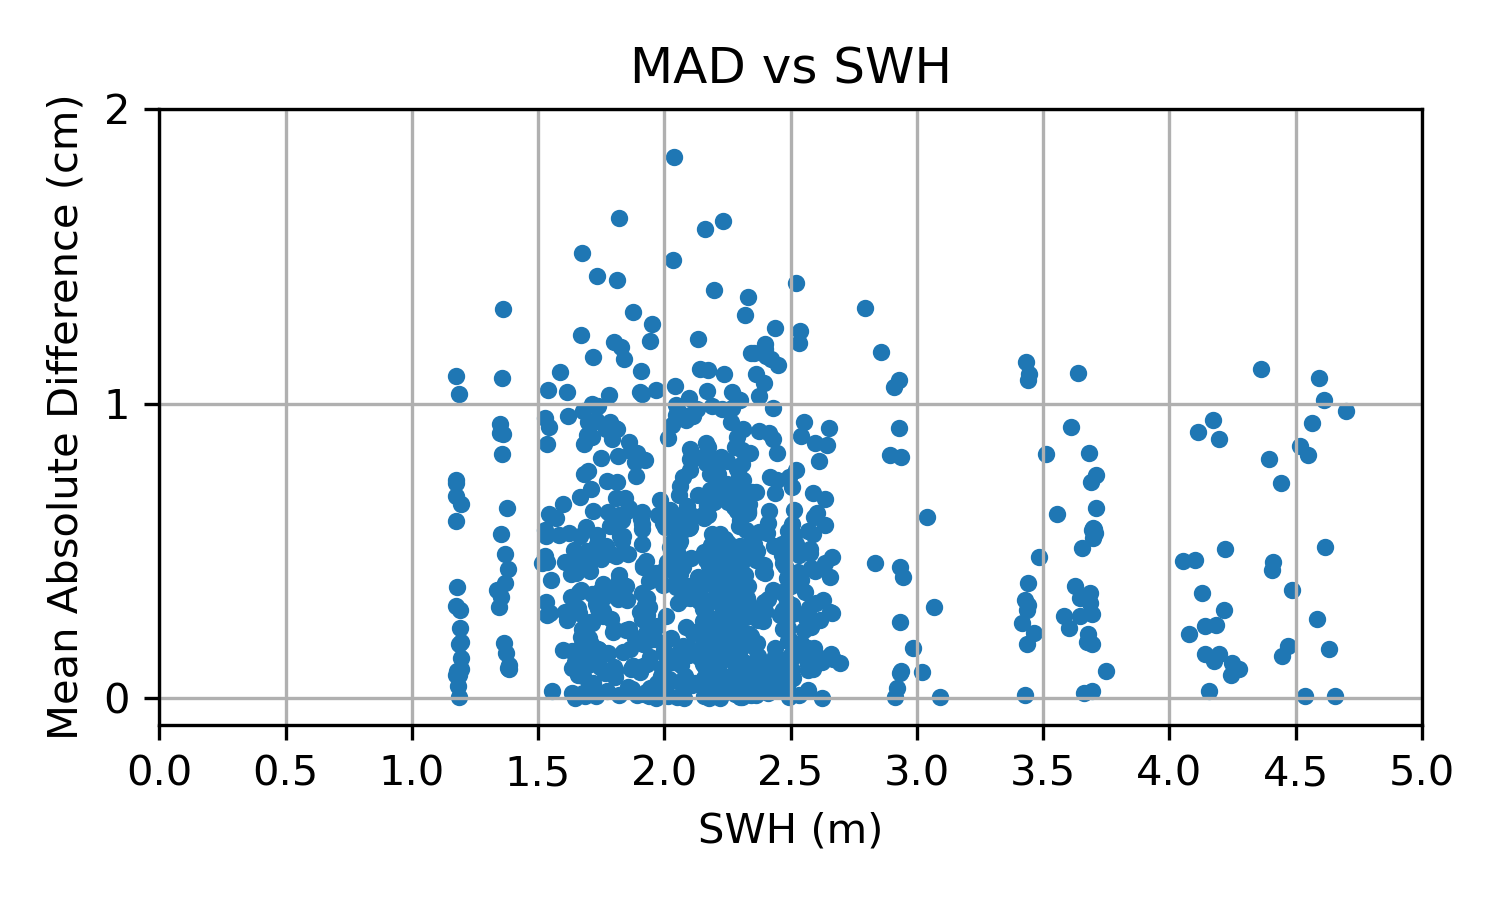
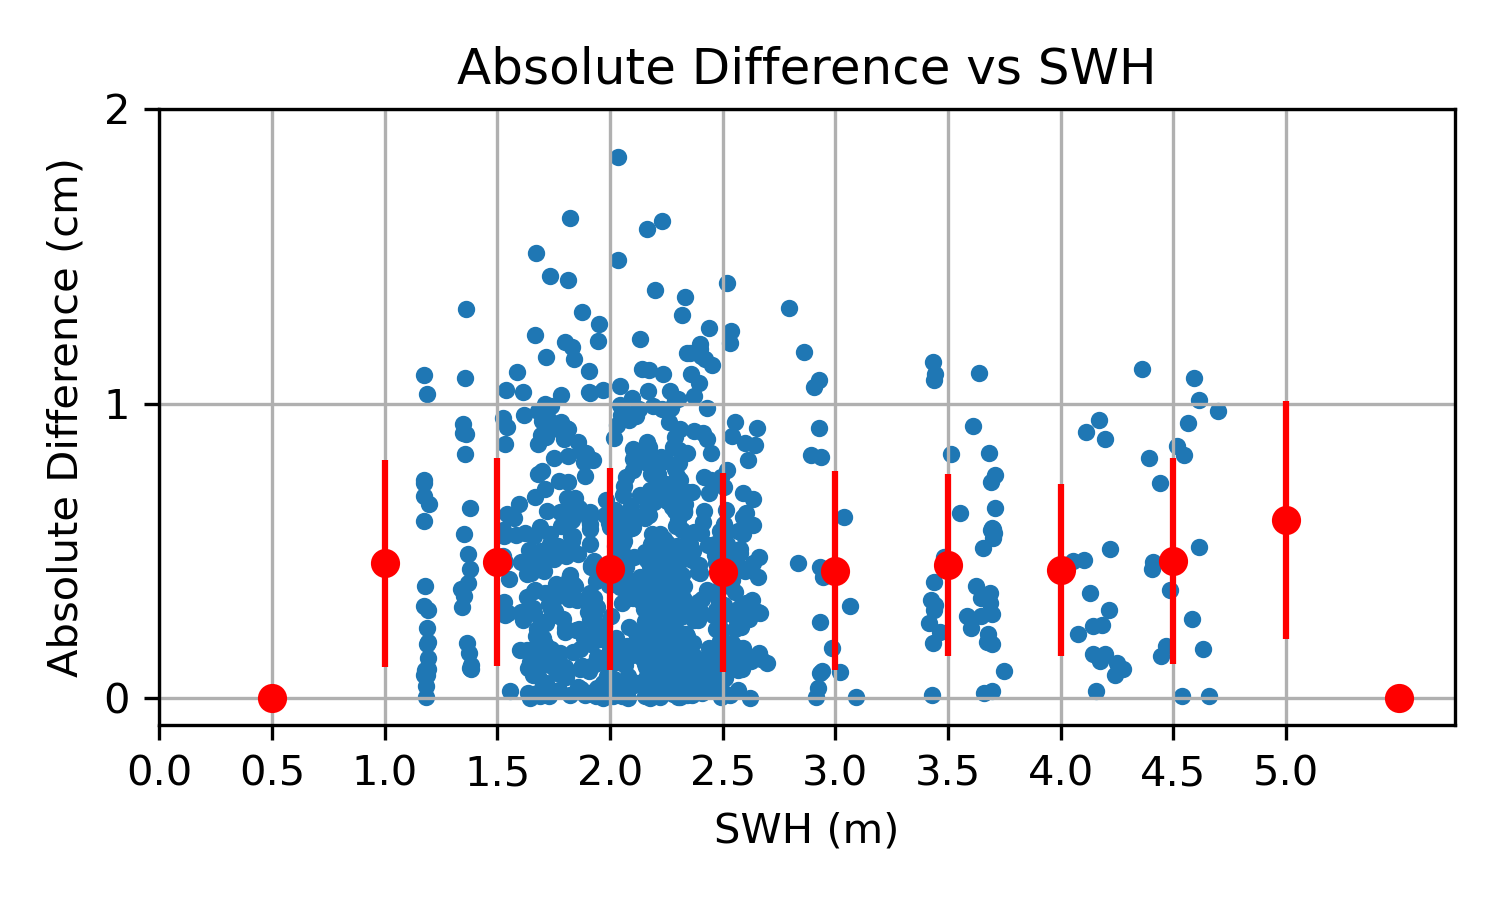
update README

diff --git a/src/4.0.process.colocated.data.py b/src/4.0.process.colocated.data.py
@@ -291,19 +291,35 @@ def error_stats(data,var_name,plotit=False,verbose=True):
         if verbose:
             ff.write(f'save figure to ../figures/4.0.colocated_data_rmsd_{append_str}.png\n')
         plt.savefig(f'../figures/4.0.colocated_data_rmsd_{append_str}.png',dpi=300)
-        
+        ### AD vs SWH
         plt.figure(figsize=(5,3))
         da=data.copy()
         ss=da[var_name]
         kk=da['ssha_karin']
         swh=da['swh']
-        dif=np.abs(ss-kk)
+        dif=np.abs(ss-kk)**2
         nn=len(swh)
-        plt.scatter(swh,dif,s=10)
+        plt.scatter(swh,dif,s=5)
+        #plot bin average
+        swh_grid=np.arange(0.5,5.6,0.5)
+        ad_grid=np.zeros(len(swh_grid))
+        ad_std_grid=np.zeros(len(swh_grid))
+        for i in range(len(swh_grid)):
+            mk=(swh>=swh_grid[i]-0.5) & (swh<swh_grid[i]+0.5)
+            if (np.sum(mk)>20):
+                ad_grid[i]=np.nanmean(dif[mk])
+                ad_std_grid[i]=np.nanstd(dif[mk])
+            else:
+                ad_grid[i]=np.nan
+                ad_std_grid[i]=np.nan
+        plt.errorbar(swh_grid,ad_grid,yerr=ad_std_grid,fmt='o',color='r')
+        
         plt.xlabel('SWH (m)')
-        plt.ylabel('Mean Absolute Difference (cm)')
-        plt.title('MAD vs SWH')
-        plt.xticks(np.arange(0,5.5,0.5))
+        plt.ylabel('MSD (cm$^2$)')
+        plt.title('MSD vs SWH')
+        plt.xlim(0,5.5)
+        plt.ylim(0,3)
+        plt.xticks(np.arange(0,5.6,0.5))
         plt.yticks(np.arange(0,3,1))
         plt.grid(True)
         plt.tight_layout()
@@ -311,8 +327,7 @@ def error_stats(data,var_name,plotit=False,verbose=True):
         plt.savefig(figfn,dpi=300)
         if verbose:
             ff.write(f'save figure to {figfn}\n')
-        
-        
+                    
         plt.figure(figsize=(6,6))
         da=data.copy()
         ss=da[var_name]

diff --git a/README.md b/README.md
@@ -2,6 +2,8 @@
 
 This repository contains the code and data necessary to reproduce the analyses and figures presented in Wang et al. (2025).
 
+Wang et al. (2025), SWOT Mission Validation of Sea Surface Height Measurements at Sub-100 km Scales, submitted to GRL.
+
 In Wang et al. (2025), we conducted a validation analysis of sea surface height measurements obtained from the Ka-Band Interferometer (KaRIn) radar aboard the Surface Water and Ocean Topography (SWOT) mission satellite. SWOT is a pioneering mission that utilizes KaRIn for the first time to map the elevation of water surfaces, including both inland and oceanic waters. The mission's primary strength lies in its high precision and its wide-swath coverage of 120 km, with a 20 km gap at nadir. The mission's objectives for oceanography include measuring sea surface height for wavelengths under approximately 100 km in two dimensions. This documentation describes the validation process for the mission.
 
 <div style="display: flex; justify-content: space-around; align-items: center;">
